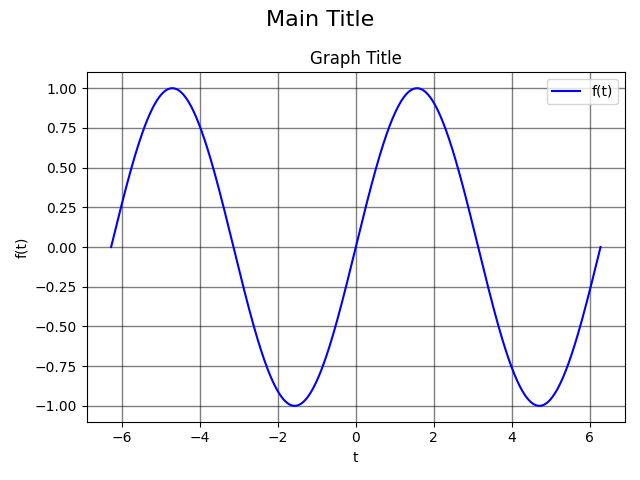
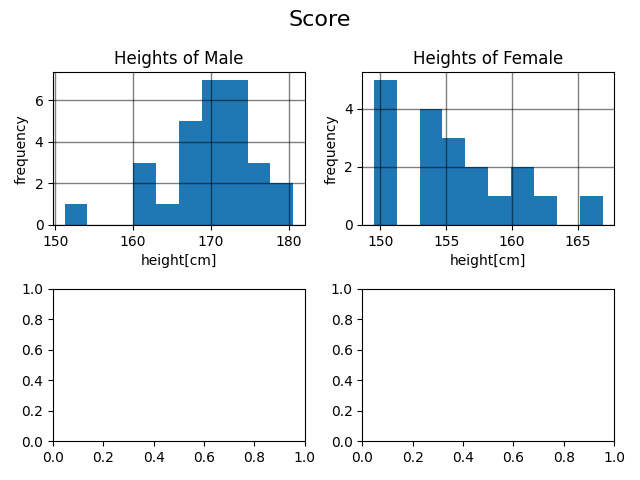
Add day9

diff --git a/2021/day9/kadai9-1.py b/2021/day9/kadai9-1.py
@@ -9,22 +9,33 @@ import pandas as pd
 
 def main():
   # Prepare data
-  t = np.linspace(-2 * np.pi, 2 * np.pi, int(1e4))
-  f = np.sin(t)
+  df = pd.read_csv('./csv/score.csv')
   # Prepare graph
-  fig, axes = plt.subplots(1, 1)
+  fig, axes = plt.subplots(2, 2)
   # Setup figure
-  fig.suptitle("Main Title", fontsize=16)
+  fig.suptitle("Score", fontsize=16)
   # Setup axes.
-  axes.set_title("Graph Title")
-  axes.set_xlabel("t")
-  axes.set_ylabel("f(t)")
-  axes.plot(t, f, color="blue", label="f(t)")
-  axes.grid(b=True, which="both", axis="both", color="black", alpha=0.5, linestyle="-", linewidth=1)
-  axes.legend(loc=0, frameon=True)
+  axes[0, 0].set_title("Heights of Male")
+  axes[0, 0].set_xlabel("height[cm]")
+  axes[0, 0].set_ylabel("frequency")
+  axes[0, 0].hist(df[df['gender'] == 0]['height'])
+  axes[0, 0].grid(b=True, which="both", axis="both", color="black", alpha=0.5, linestyle="-", linewidth=1)
+
+  axes[0, 1].set_title("Heights of Female")
+  axes[0, 1].set_xlabel("height[cm]")
+  axes[0, 1].set_ylabel("frequency")
+  axes[0, 1].hist(df[df['gender'] == 1]['height'])
+  axes[0, 1].grid(b=True, which="both", axis="both", color="black", alpha=0.5, linestyle="-", linewidth=1)
+
+  # axes[0, 1].set_title("Gender")
+  # axes[0, 1].set_xlabel("height[cm]")
+  # axes[0, 1].set_ylabel("frequency")
+  # #axes[0, 1].hist(df[['height']])
+  # df[['gender']].value_counts().plot(kind='bar', ax=axes[0, 1])
+  # axes[0, 1].grid(b=True, which="both", axis="both", color="black", alpha=0.5, linestyle="-", linewidth=1)
   # Display graph
   plt.tight_layout()
-  plt.savefig("images/kadai9-1.png")
+  plt.savefig("./images/kadai9-1.png")
   plt.show()
 
 

diff --git a/2021/day9/make_heights.py b/2021/day9/make_heights.py
@@ -1,0 +1,24 @@
+import pandas as pd
+import numpy as np
+from scipy import stats
+
+#
+male18 = stats.norm.rvs(171.12, 5.55, size=int(stats.norm.rvs(10, 5, size=1)))
+female18 = stats.norm.rvs(158.03, 5.56, size=int(stats.norm.rvs(10, 5, size=1)))
+male19 = stats.norm.rvs(171.58, 5.63, size=int(stats.norm.rvs(10, 5, size=1)))
+female19 = stats.norm.rvs(158.23, 5.37, size=int(stats.norm.rvs(10, 5, size=1)))
+
+height = np.concatenate([male18, female18, male19, female19])
+age = np.concatenate([np.ones(male18.size,) * 18, np.ones(female18.size,) * 18, np.ones(male19.size,) * 19, np.ones(female19.size,) * 19])
+gender = np.concatenate([np.ones(male18.size,) * 0, np.ones(female18.size,) * 1, np.ones(male19.size,) * 0, np.ones(female19.size,) * 1])
+
+df = pd.DataFrame({'age': age, 'gender': gender, 'height': height})
+
+# random shuffle
+df = df.sample(frac=1).reset_index(drop=True)
+
+# int
+# df[['age', 'gender'] = df[['age', 'gender']]].astype(int).astype(str)
+
+# float format %4.1f
+df.to_csv('csv/heights.csv', index=False, header=True, float_format='%4.1f')

diff --git a/2021/day9/kadai9-1 copy.py b/2021/day9/kadai9-1 copy.py
@@ -1,0 +1,32 @@
+#!/usr/bin/env python
+# -*- coding: utf-8 -*-
+import sys
+import numpy as np
+import matplotlib as mpl
+import matplotlib.pyplot as plt
+import pandas as pd
+
+
+def main():
+  # Prepare data
+  df = pd.read_csv('./csv/score.csv')
+  # Prepare graph
+  fig, axes = plt.subplots(1, 1)
+  # Setup figure
+  fig.suptitle("Main Title", fontsize=16)
+  # Setup axes.
+  axes.set_title("Graph Title")
+  axes.set_xlabel("t")
+  axes.set_ylabel("f(t)")
+  axes.hist(df[['height']])
+  # axes.plot(t, f, color="blue", label="f(t)")
+  axes.grid(b=True, which="both", axis="both", color="black", alpha=0.5, linestyle="-", linewidth=1)
+  #axes.legend(loc=0, frameon=True)
+  # Display graph
+  plt.tight_layout()
+  plt.savefig("./images/kadai9-1.png")
+  plt.show()
+
+
+if __name__ == "__main__":
+  sys.exit(main())

diff --git a/2021/day1/README.md b/2021/day1/README.md
@@ -40,12 +40,12 @@
 |1    |1    |1    |1    |1    |1    |1    |
 |2    |1    |1    |0    |0    |1    |1    |
 |3    |1    |1    |0    |0    |1    |1    |
-|4    |1    |1    |1    |1    |1    |1    |
-|4    |1    |1    |1    |1    |1    |1    |
-|4    |0    |0    |0    |0    |1    |1    |
-|4    |0    |0    |0    |0    |1    |1    |
-|4    |1    |1    |1    |1    |1    |1    |
-|4    |1    |1    |1    |1    |1    |1    |
+|5    |1    |1    |1    |1    |1    |1    |
+|6    |1    |1    |1    |1    |1    |1    |
+|7    |0    |0    |0    |0    |1    |1    |
+|8    |0    |0    |0    |0    |1    |1    |
+|9    |1    |1    |1    |1    |1    |1    |
+|10   |1    |1    |1    |1    |1    |1    |
 
 * 拡大した「9」の線ベクトル画像
 
